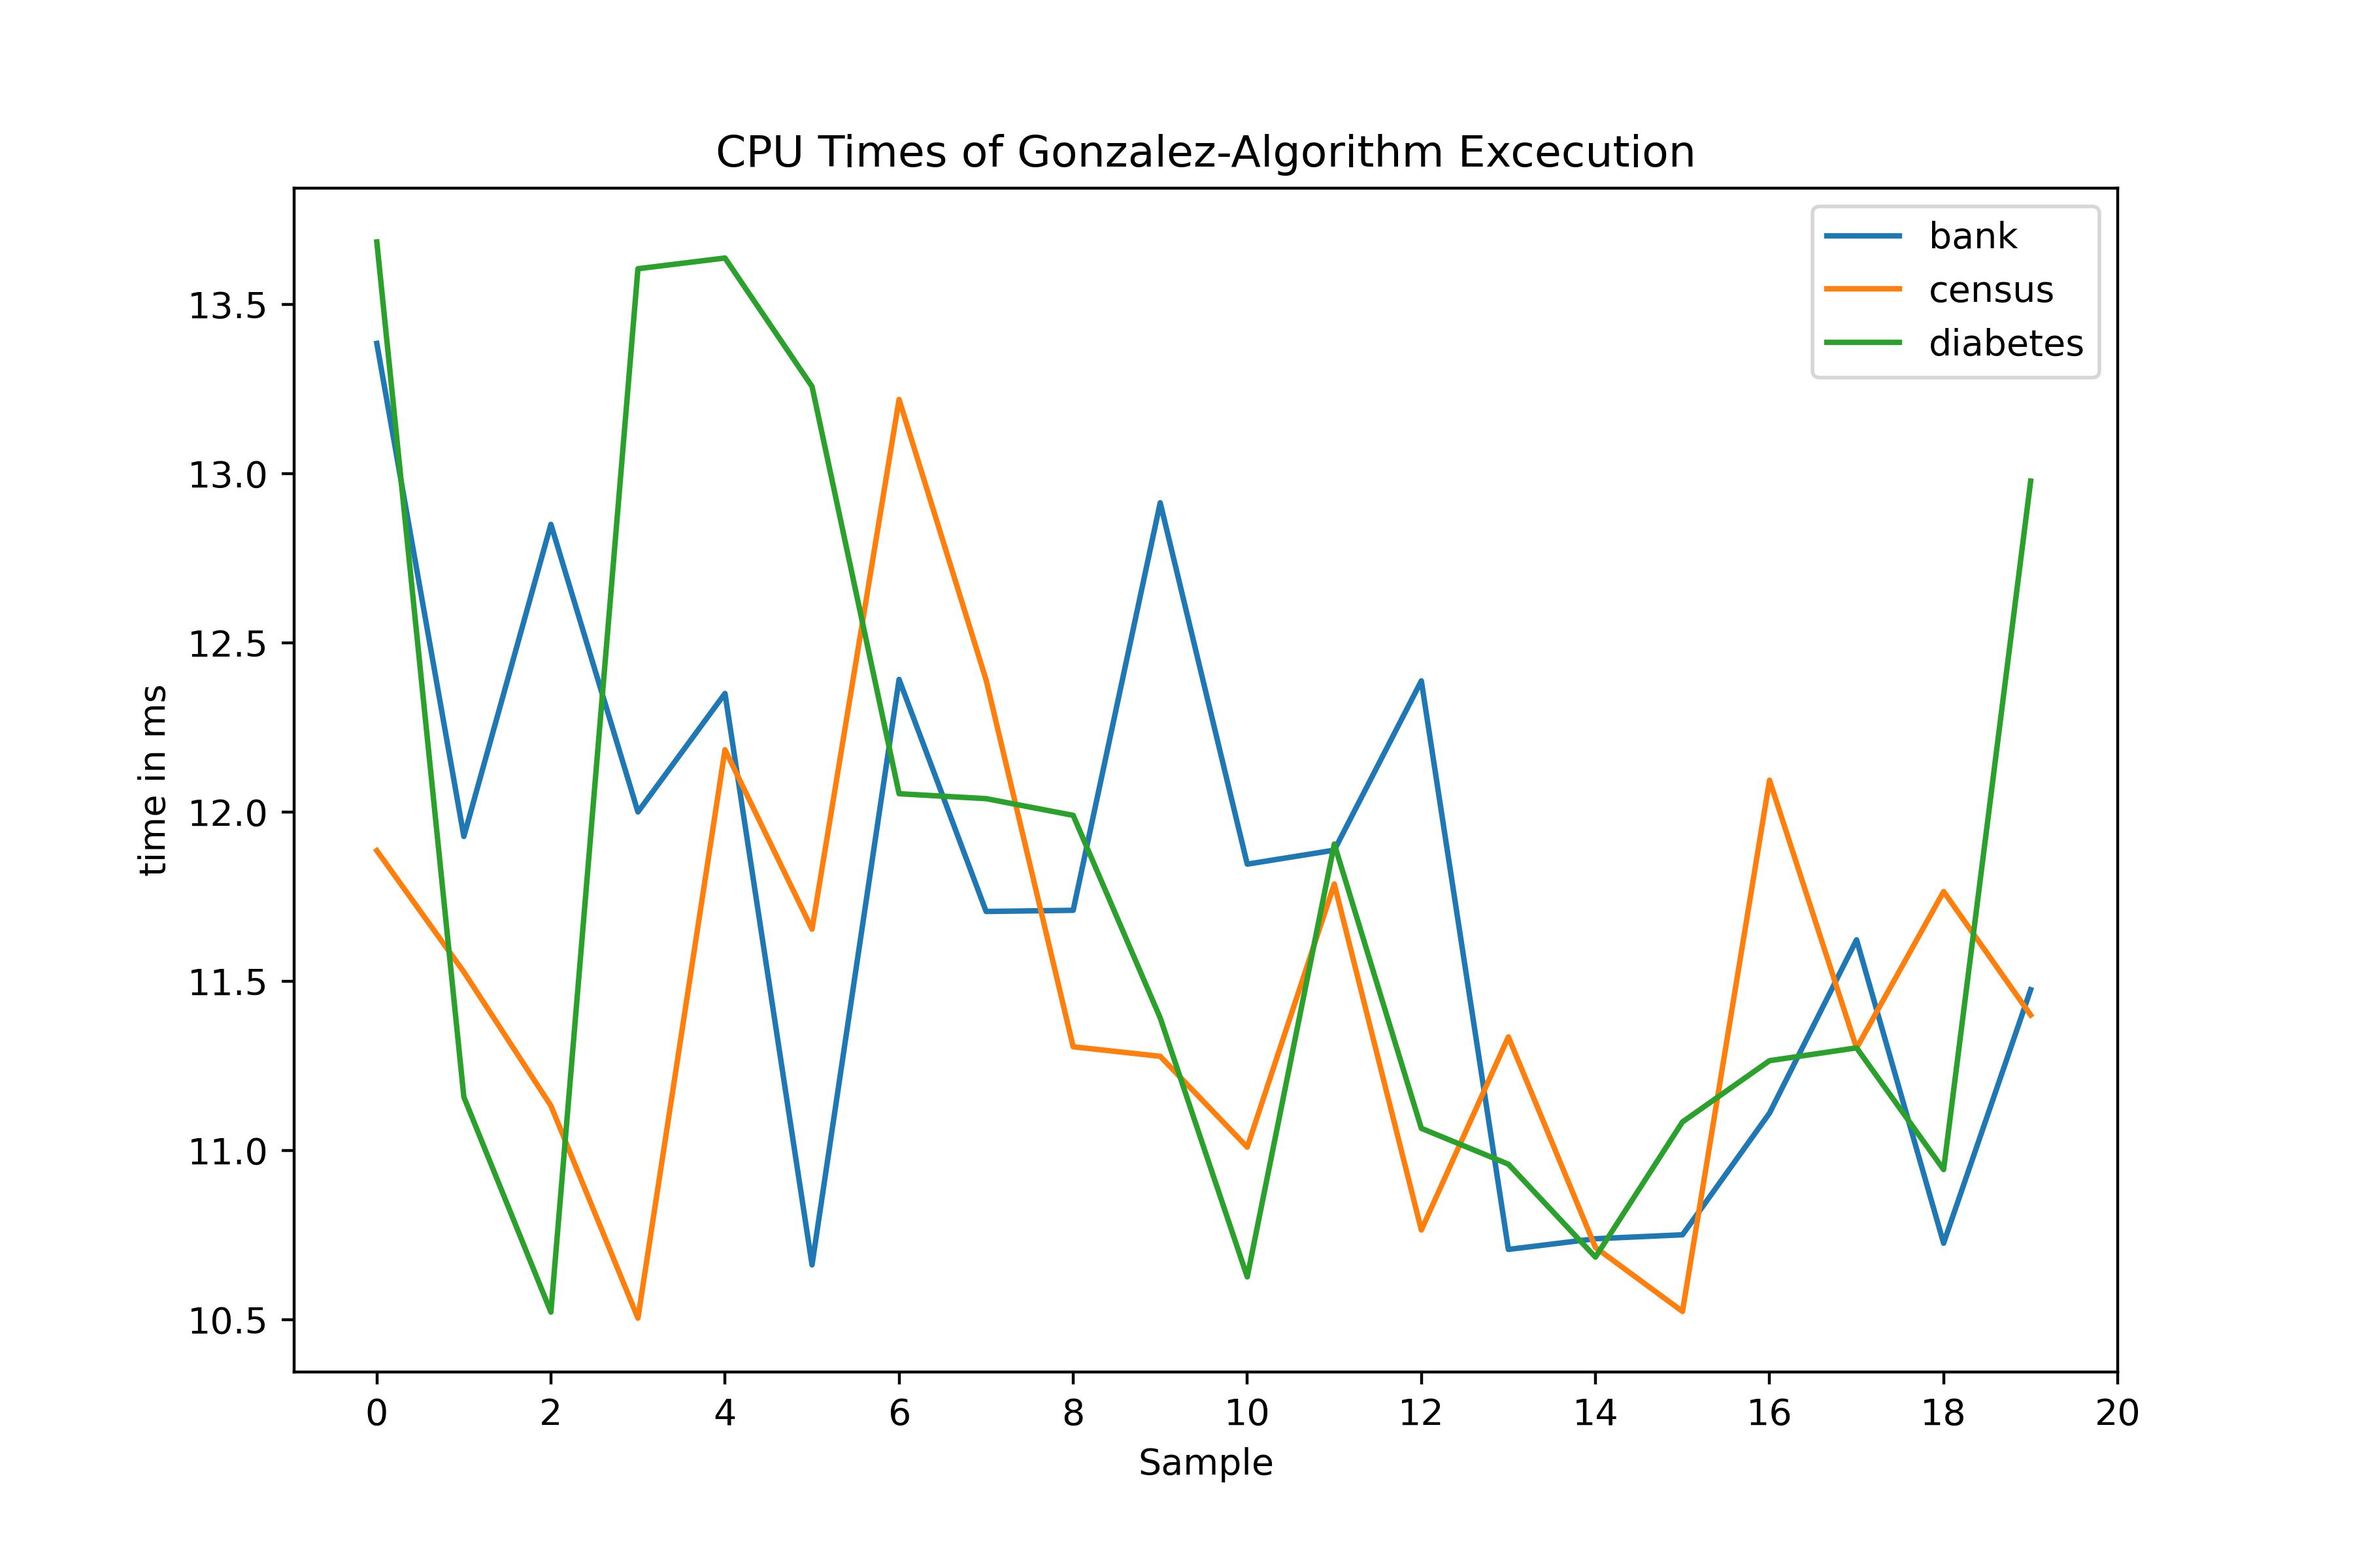
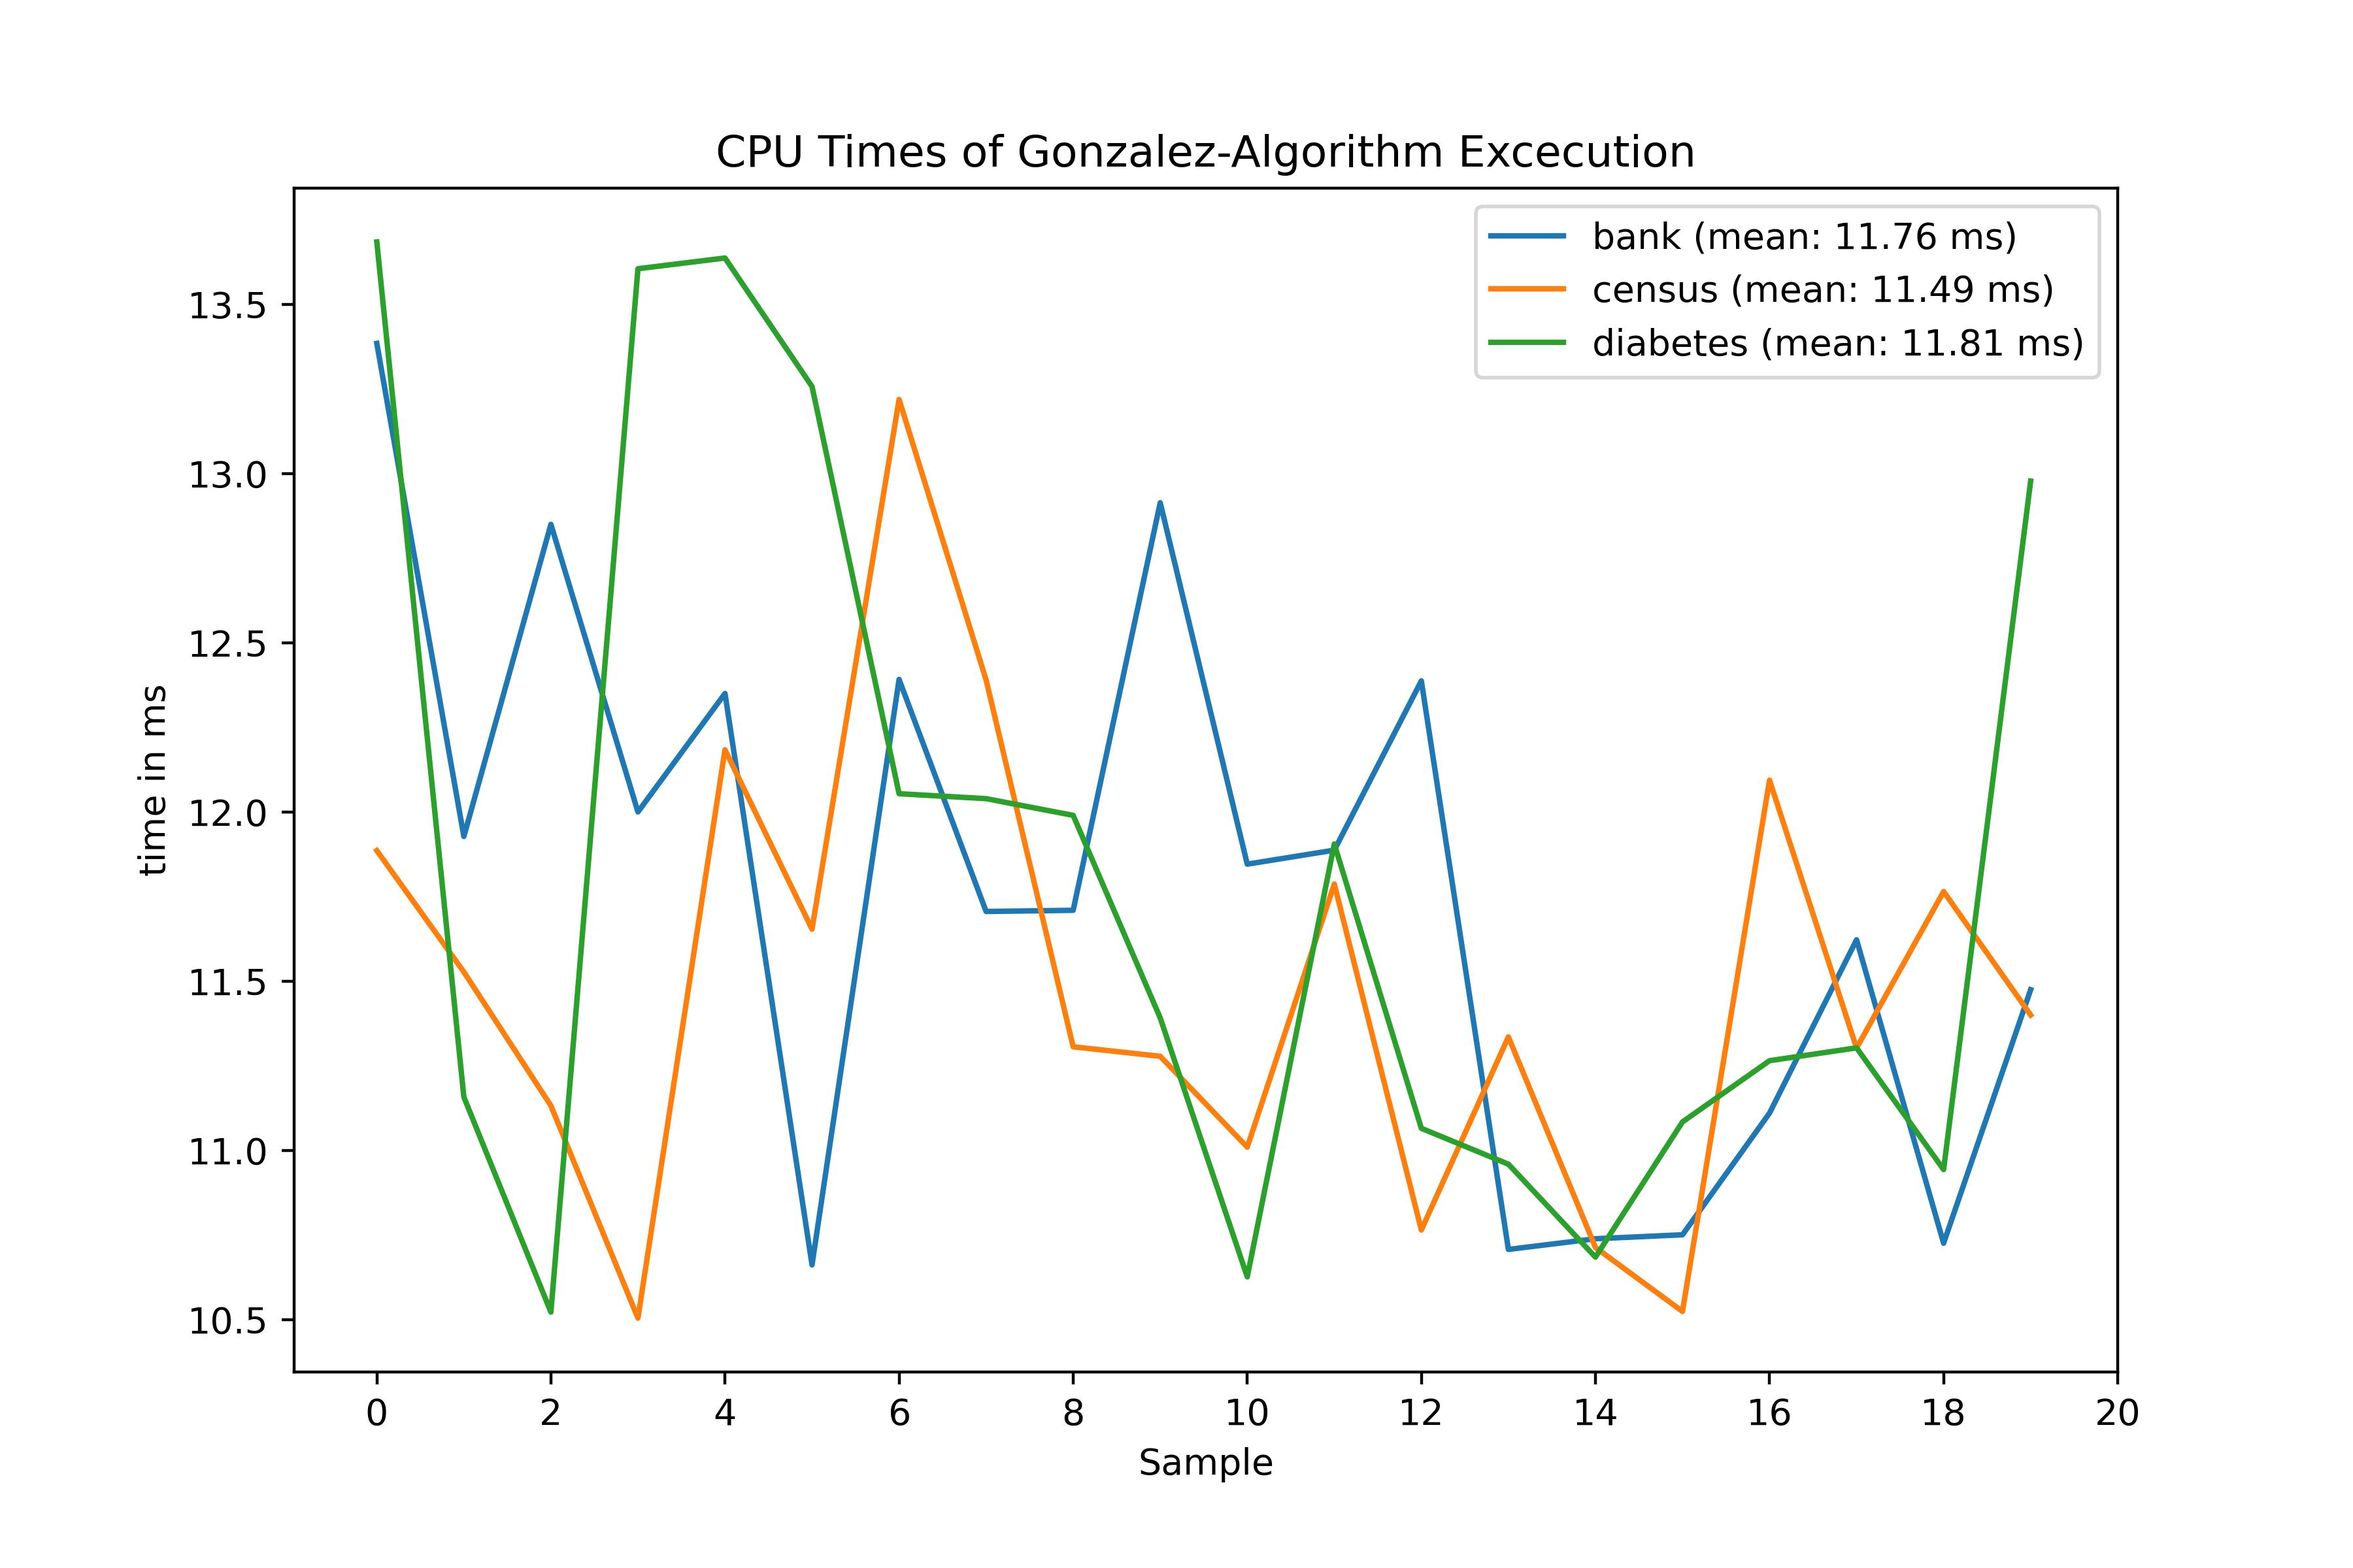
Median in Timinganalysis added
Wenn die Laufzeit analysiert wird, wird jetzt auch der Median berechnet. So kann man die Werte besser vergleichen

Changed region(s): [[0.6222, 0.125, 0.8711, 0.25]]

diff --git a/Multicolor-Fair-Clusterin/Pythonskripte/DataAnalyzer.py b/Multicolor-Fair-Clusterin/Pythonskripte/DataAnalyzer.py
@@ -10,6 +10,7 @@ import matplotlib.pyplot as plt
 import os
 import pandas as pd
 import csv
+import numpy as np
 
 from PIL import Image
 
@@ -19,7 +20,7 @@ def analyzeDatasetzs(pictureFolder = "../Data/OutputData/Final/Pictures/",
                    numOfSamples = 5, algs = ["g", "r", "f"]):
         
     
-    
+    """
     # Einmal für jedes Datenset durchgehen
     for dataSet in ["bank", "census", "diabetes"]:
         # Großen Gemeinsamen leeren Plot bauen
@@ -41,7 +42,7 @@ def analyzeDatasetzs(pictureFolder = "../Data/OutputData/Final/Pictures/",
         plt.show()
 
 
-
+    """
     # Analyse der Laufzeiten    
     for alg in algs:
         # Daten einlesen
@@ -50,11 +51,11 @@ def analyzeDatasetzs(pictureFolder = "../Data/OutputData/Final/Pictures/",
         analyze_times(timestamps, pictureFolder, ["bank", "census", "diabetes"], algorithm=alg)
     
     # ====== Große Bilder zusammensetzen ====== #
-    clue_pictures_together(["bank", "census", "diabetes"], pictureFolder, maxCluster=maxCluster)
+    #clue_pictures_together(["bank", "census", "diabetes"], pictureFolder, maxCluster=maxCluster)
     
     
     # Analyse für das Center-Aware Problem von Fast-Anchor
-    fast_anchor_maxline_analysis("census", pictureFolder, dataFolder, numOfSamples=10)
+    #fast_anchor_maxline_analysis("census", pictureFolder, dataFolder, numOfSamples=10)
     
     return
 
@@ -264,21 +265,42 @@ def analyze_times(timestamps, picturePath, labels, algorithm="g"):
         algorithmName = "Red-Clustering"
     if(algorithm == "f"):
         algorithmName = "Fast-Clustering"
+        
+    
     
     # Ordner erstellen, falls nicht vorhanden
     os.makedirs(picturePath, exist_ok=True) 
     
+    # Intervallgröße einstellen
     intervalls = max(int(len(timestamps[0])/10),1)
     
+    # Farben festlegen
+    colors = ["tab:blue", "tab:orange", "tab:green"]
+    
+    # Plot erzeugen
     fig, ax = plt.subplots(figsize=(9,6))
+    
+    
     for i in range(0, len(labels)):
-        ax.plot(range(0, len(timestamps[0])), [e / 1_000_000 for e in timestamps[i]], label = labels[i])
+        # Median der Zeiten berechnen
+        mean_of_times = np.mean(timestamps[i])  / 1_000_000
+        # Plotten der Kurve
+        ax.plot(range(0, len(timestamps[0])), 
+                [e / 1_000_000 for e in timestamps[i]], 
+                label = f"{labels[i]} (mean: {mean_of_times:.2f} ms)", color = colors[i])
+        #ax.plot(range(0, len(timestamps[0])), 
+        #        [e / 1_000_000 for e in timestamps[i]], 
+        #        label = f"{labels[i]}", color = colors[i])
+        # Plotten des Medians
+        #ax.axhline(y=mean_of_times, linestyle='--', 
+        #           label=f"{labels[i]} mean: {mean_of_times:.2f} ms" , color = colors[i])
+    
 
     ax.set_xticks(list(range(0, len(timestamps[0]) + 1, intervalls)))
     ax.set_title(f"CPU Times of {algorithmName} Excecution")
     ax.set_xlabel("Sample")
     ax.set_ylabel("time in ms")
-    ax.legend()
+    ax.legend(loc='upper right')
     plt.savefig(picturePath + f"/Timinganalysis {algorithmName}.jpg", dpi=400)
     plt.show()   
     
